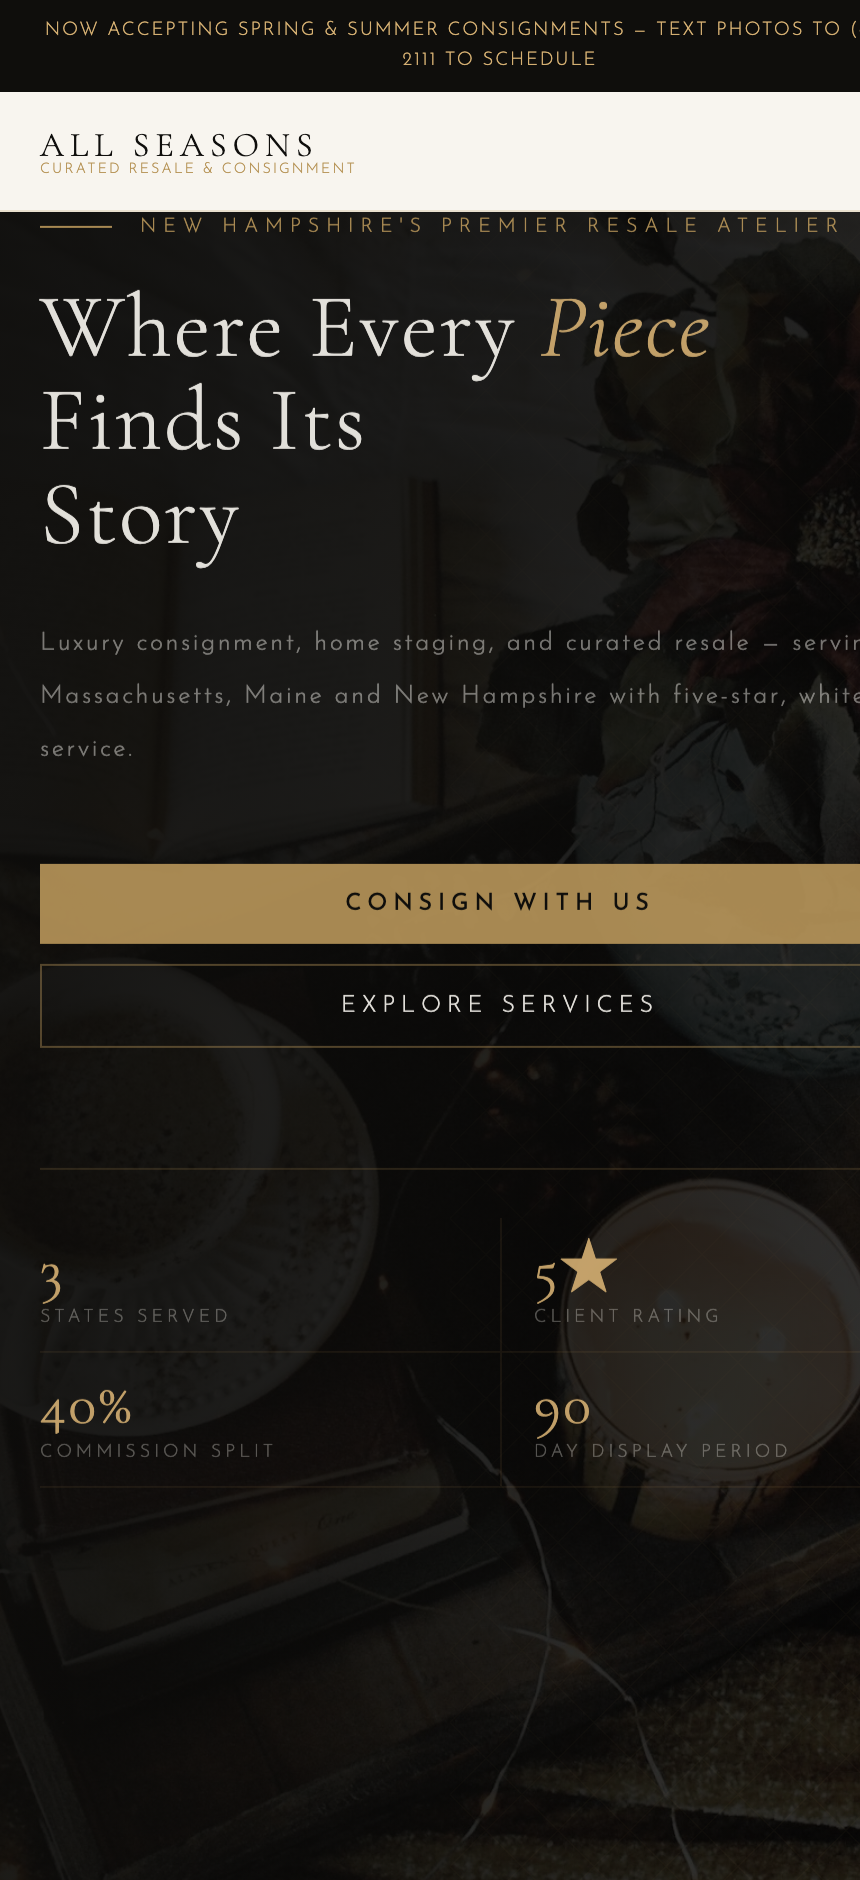
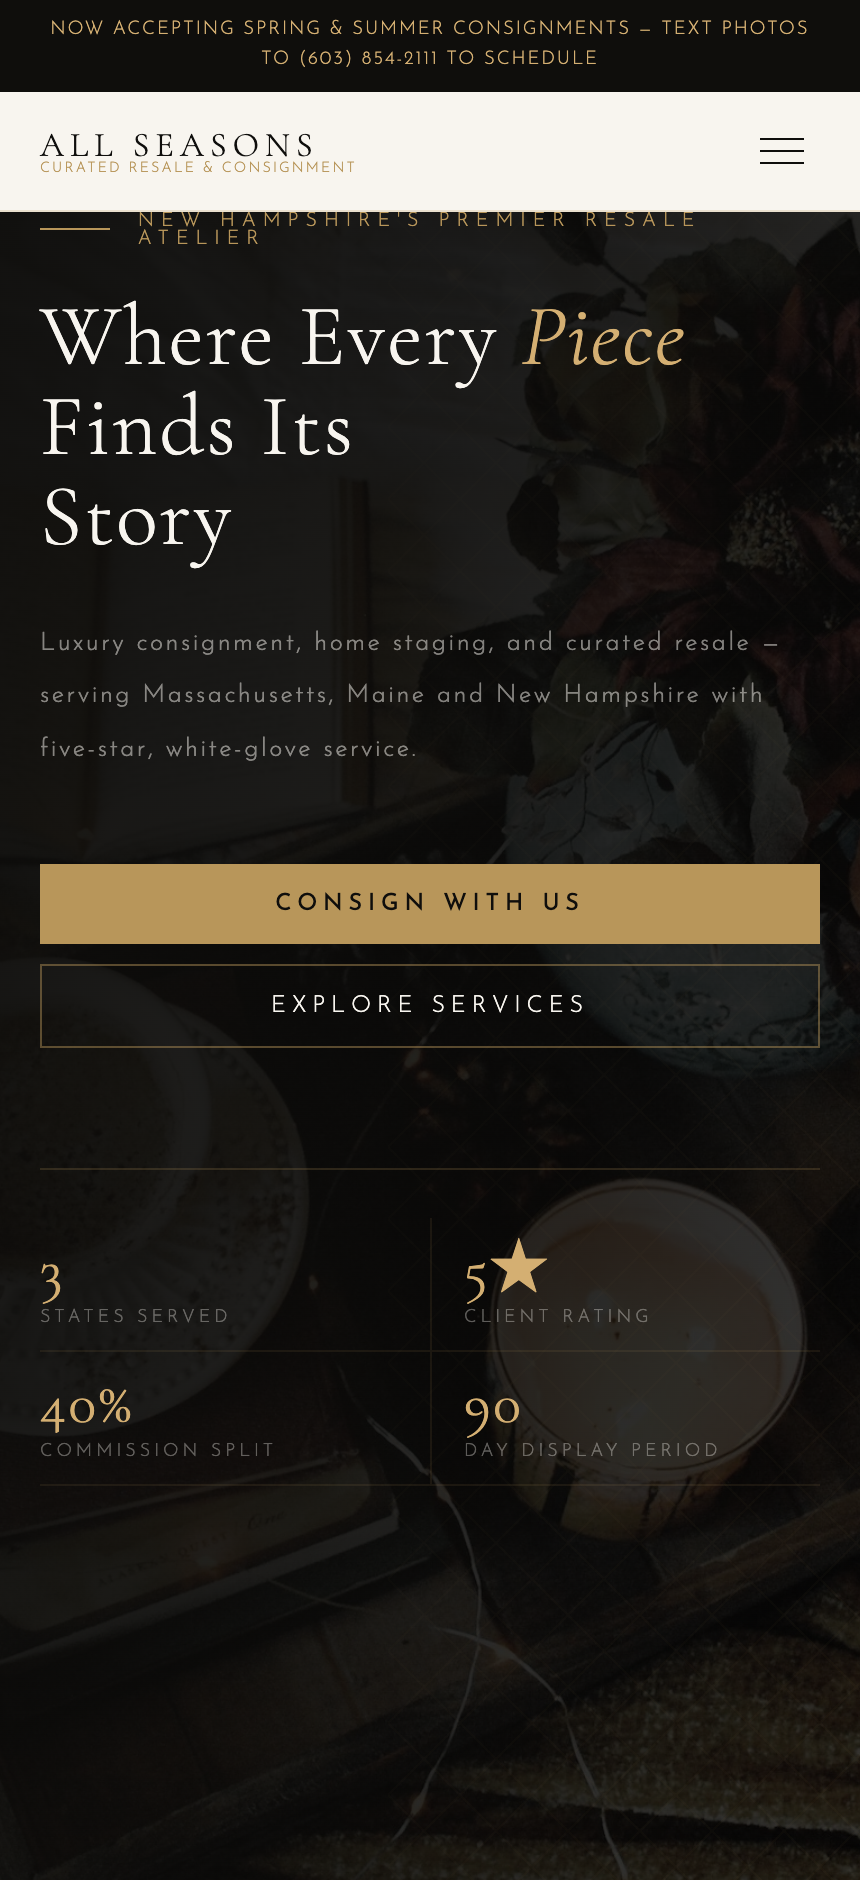
Re-capture phone screenshots with true iPhone emulation (fixes right-side clipping)
Root cause: original headless capture used --window-size without mobile emulation, so the sites laid out at desktop width and the centered content column was clipped on the right (logo + buttons cut off). Re-captured via puppeteer-core with isMobile viewport (430x940 @2x, overflowRightPx=0). Bumped quench v2->v3, allseasons v3->v4.

diff --git a/index.html b/index.html
@@ -106,7 +106,7 @@
         <div class="wcard-media bg-quench">
           <div class="device device-phone">
             <div class="phone">
-              <div class="phone-screen"><img src="assets/quench-mobile.png?v=2" alt="Quench Water Co — refreshed mobile site by NearBlack" loading="lazy"></div>
+              <div class="phone-screen"><img src="assets/quench-mobile.png?v=3" alt="Quench Water Co — refreshed mobile site by NearBlack" loading="lazy"></div>
             </div>
           </div>
         </div>
@@ -127,7 +127,7 @@
         <div class="wcard-media bg-allseasons">
           <div class="device device-phone">
             <div class="phone">
-              <div class="phone-screen"><img src="assets/allseasons-mobile.png?v=3" alt="All Seasons — refreshed mobile site by NearBlack" loading="lazy"></div>
+              <div class="phone-screen"><img src="assets/allseasons-mobile.png?v=4" alt="All Seasons — refreshed mobile site by NearBlack" loading="lazy"></div>
             </div>
           </div>
         </div>

diff --git a/portfolio.html b/portfolio.html
@@ -81,7 +81,7 @@
         <div class="wcard-media bg-quench">
           <div class="device device-phone">
             <div class="phone">
-              <div class="phone-screen"><img src="assets/quench-mobile.png?v=2" alt="Quench Water Co — refreshed mobile site by NearBlack" loading="lazy"></div>
+              <div class="phone-screen"><img src="assets/quench-mobile.png?v=3" alt="Quench Water Co — refreshed mobile site by NearBlack" loading="lazy"></div>
             </div>
           </div>
         </div>
@@ -110,7 +110,7 @@
         <div class="wcard-media bg-allseasons">
           <div class="device device-phone">
             <div class="phone">
-              <div class="phone-screen"><img src="assets/allseasons-mobile.png?v=3" alt="All Seasons — refreshed mobile site by NearBlack" loading="lazy"></div>
+              <div class="phone-screen"><img src="assets/allseasons-mobile.png?v=4" alt="All Seasons — refreshed mobile site by NearBlack" loading="lazy"></div>
             </div>
           </div>
         </div>
